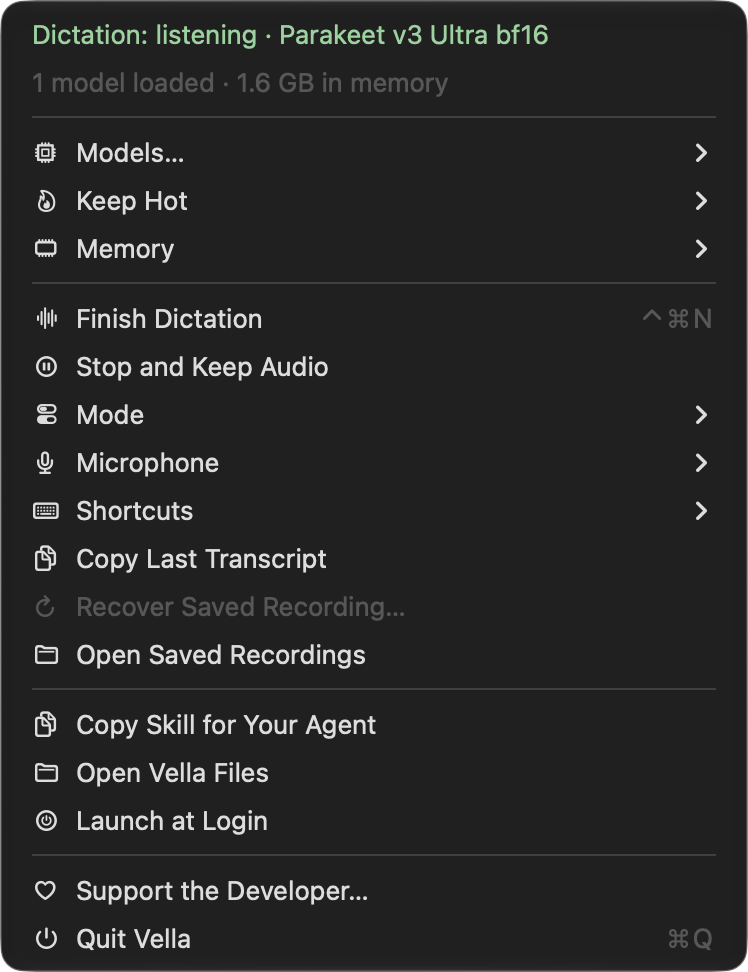
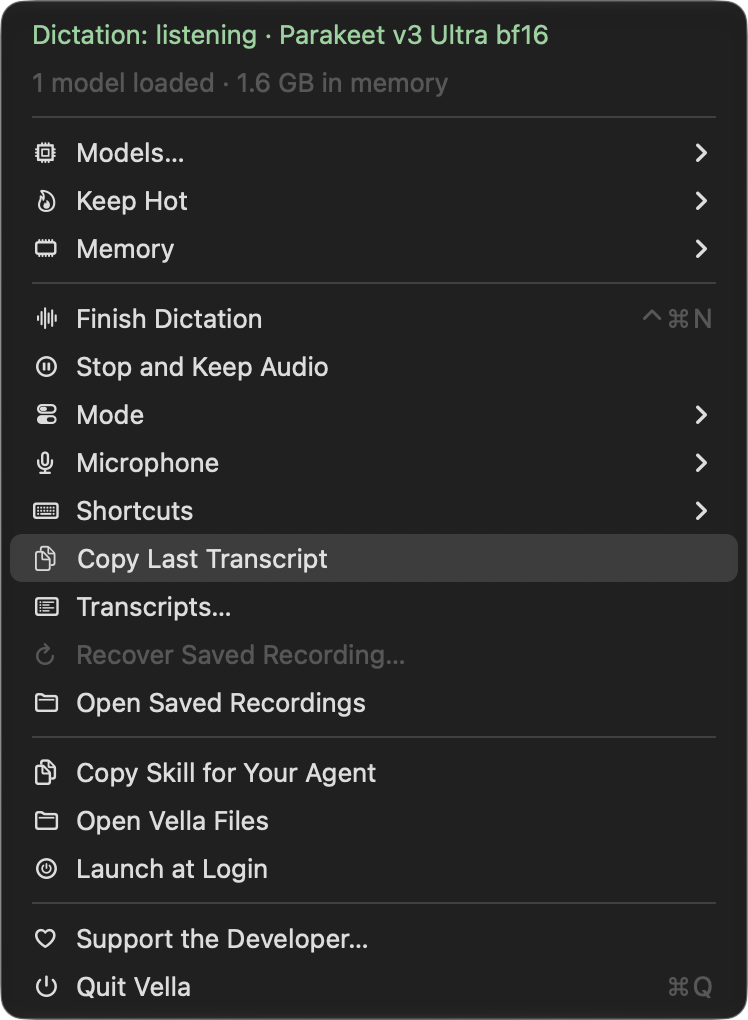
Lifecycle audit 2.1 fixes: current README images, docs match the one-row table, Get placeholders render, load-failure remedy, real Parakeet v3 download size, changelog

diff --git a/scripts/agent-docs.swift b/scripts/agent-docs.swift
@@ -94,7 +94,7 @@ func render(_ models: JSON, _ bench: JSON) -> String {
     lines += (models["families"] as? [JSON] ?? []).map { row($0, bench) }
     var note =
         "English WER is on the 167 English minutes of v2 (239.7 min total); nine other languages are scored separately. Figures use the first offered, measured 16-bit cell: Optimized Fast, then Exact, then Standard. Speed is × real time and energy is joules "
-        + "per minute of audio on the reference Mac (\(bench["hardware"] as? String ?? dash)); measurements are from an M5 Max with a 40-core GPU; other M5 configurations have not yet been tested. On any other configuration, WER/Format/Peak RAM remain reference measurements; Speed remains the M5 Max measured speed, lighter grey with a small M5 Max label; J/min is not known. Tooltip: Measured on an M5 Max (40-core GPU). Your Mac will differ; vella diagnose measures it. "
+        + "per minute of audio on the reference Mac (\(bench["hardware"] as? String ?? dash)); measurements are from an M5 Max with a 40-core GPU; other M5 configurations have not yet been tested. On any other configuration, WER/Format/Peak RAM remain reference measurements; Speed and J / min show the M5 Max reference measurements with warning triangles, and the footer names the measured Mac. Tooltip: Measured on an M5 Max (40-core GPU). Your Mac will differ; vella diagnose measures it. "
         + "Fast enables every kept lever for that model and precision; Exact enables only exact kept levers; Standard enables none. "
         + "Streaming models do not transcribe files. `vella models --json` lists every cell, its reference English WER and peak RAM, M5 Max measured speed labelled by hardware and chip-qualified energy, measurement provenance or refusal reason, and the source and size. Equal recipes use the canonical measured cell named in `cells[].provenance.display_cell` (`display_cells` in the benchmark file)."
     if isPending(bench) {

diff --git a/Sources/Vella/ModelsTable/ModelTable.swift b/Sources/Vella/ModelsTable/ModelTable.swift
@@ -329,10 +329,17 @@ struct ModelTable: View {
     }
 
     /// What a download fetches for a precision: its own weights, or for a derived precision the weights it is made from.
+    /// Sizes come from what Get actually transfers (`acquisition`), so a stored conversion shows its source download.
     private func downloadText(_ family: ModelFamily, _ precision: String) -> String {
-        guard let root = controller.downloadRoot(family, precision), let v = family.variants[root] else { return "Download" }
-        let size = formatBytes(v.downloadBytes)
-        return root == precision ? "Asks, then downloads \(size) from Hugging Face" : "Asks, then downloads the \(precisionFormatName(root)) weights (\(size)) it is made from"
+        guard let source = family.acquisition(of: precision) else { return "Download" }
+        let size = formatBytes(source.download.downloadBytes)
+        let root = precisionFormatName(source.root)
+        if source.root == precision {
+            return "Asks, then downloads \(size) from Hugging Face" + (source.convert == nil ? "" : " and converts it to \(root)")
+        }
+        return source.convert == nil
+            ? "Asks, then downloads the \(root) weights (\(size)) it is made from"
+            : "Asks, then downloads \(size) from Hugging Face and converts it to the \(root) weights it is made from"
     }
     /// What the row's action does (the action cell's tooltip, second line).
     private func actionHelp(_ action: LoadAction, family: ModelFamily, precision: String, loaded: String?) -> String {

diff --git a/Tests/VellaAppTests/ModelsTable/TableTooltipTests.swift b/Tests/VellaAppTests/ModelsTable/TableTooltipTests.swift
@@ -395,6 +395,16 @@ final class TableTooltipTests: XCTestCase {
             table.tooltips(ultra).first { $0.0 == "Action" }?.1,
             "Not downloaded\nAsks, then downloads the BF16 (bfloat16) weights (\(formatBytes(ultra.variants["BF16"]!.downloadBytes))) it is made from; then loads it for dictation. The quantized weights are made in memory each time this precision loads."
         )
+        // Parakeet v3's bf16 is converted from the fp32 download: the tooltip gives that download, never Zero kB
+        // (lifecycle audit 2.1, A6).
+        let v3 = try XCTUnwrap(c.catalog.family("parakeet-v3"))
+        let fetched = try XCTUnwrap(v3.acquisition(of: "8b")).download.downloadBytes
+        XCTAssertGreaterThan(fetched, 0)
+        for tier in [ModelTier.t16, .t8] {
+            c.select(v3, tier: tier)
+            let action = try XCTUnwrap(table.tooltips(v3).first { $0.0 == "Action" }?.1)
+            XCTAssertTrue(action.contains(formatBytes(fetched)) && !action.contains("Zero"), action)
+        }
         let nemotron = try XCTUnwrap(c.catalog.family("nemotron-3.5-streaming-0.6b"))
         XCTAssertNotNil(c.result(nemotron, "8b"), "corrected int8 cells supply measured shipping figures despite recommendation failure")
         XCTAssertTrue(speedHelp(nemotron.mode, c.result(nemotron, "8b"), suites: c.benchmarks.suites).hasPrefix("Streaming replay speed"))

diff --git a/Sources/Vella/ModelsTable/ModelsController.swift b/Sources/Vella/ModelsTable/ModelsController.swift
@@ -412,7 +412,9 @@ struct ModelDeletionPlan {
     /// The Get row's download: the offered precision's own weights, or for a precision made on this Mac its source's.
     func firstOffer(_ mode: RecognitionMode) -> DictationController.ModelOffer? {
         guard let (family, precision) = firstOffered(mode), let source = family.downloadSource(of: precision) else { return nil }
-        return DictationController.ModelOffer(id: source.variant.id, name: family.name, downloadBytes: source.variant.downloadBytes, mode: mode)
+        // The size is what Get transfers: a stored conversion (Parakeet v3's bf16) has no download of its own.
+        let bytes = family.acquisition(of: precision)?.download.downloadBytes ?? source.variant.downloadBytes
+        return DictationController.ModelOffer(id: source.variant.id, name: family.name, downloadBytes: bytes, mode: mode)
     }
     /// The precision the row returns to without a preview: the committed selection's tier.
     /// ONE state: a loaded model shows its loaded precision (offered or not); an unloaded one the committed selection's

diff --git a/Sources/Vella/QA/LifecycleRenders.swift b/Sources/Vella/QA/LifecycleRenders.swift
@@ -71,7 +71,7 @@ import VellaCore
                 "Could not prepare the local precision: Vella does not have permission to write the recipe. The current selection is unchanged. Check the model folder and try Load again in Models…."
             ),
             ("Word timestamps", "Word timestamps are not supported. Use timestamp_granularities[]=segment with response_format=verbose_json."),
-            ("Direct control API", "Select needs at least one JSON field: precision, path or mode. Deletion needs explicit consent: yes=true (CLI: --yes).")
+            ("Direct control API", "Select needs at least one JSON field: precision or mode. Deletion needs explicit consent: yes=true (CLI: --yes).")
         ]
         actions.append { [self] in MenuMock.capture(TooltipSheet(pairs: pairs, width: 640), to: directory.appendingPathComponent("changed-tooltips.png"), done: next) }
         actions.append { [self] in MenuMock.capture(DMGLayoutView(), to: directory.appendingPathComponent("dmg-window-settings.png"), done: next) }

diff --git a/Sources/Vella/Workers/DictationBackend.swift b/Sources/Vella/Workers/DictationBackend.swift
@@ -4,10 +4,10 @@ import VellaCore
 import VellaWire
 
 extension Backend {
-    /// A model the worker could not load. For a catalog model that is almost always its files (a truncated or damaged
-    /// download): trying again cannot help, getting it again does.
+    /// A model the worker could not load. Usually its files (a truncated or damaged download), so the remedy ends in
+    /// getting it again; a selected model can only be deleted once another one is chosen for that mode.
     nonisolated static func loadFailed(_ name: String) -> String {
-        "\(name) failed to load; its files may be damaged. Delete it in Models… and Get it again."
+        "\(name) failed to load. Try Load again; if it keeps failing, load another model, then delete this one in Models… and Get it again."
     }
 }
 

diff --git a/Tests/VellaAppTests/ModelsTable/ReadmeCaptureTests.swift b/Tests/VellaAppTests/ModelsTable/ReadmeCaptureTests.swift
@@ -24,7 +24,6 @@ final class ReadmeCaptureTests: XCTestCase {
         XCTAssertTrue(controller.catalog.family("parakeet-v3")?.tiersOffered?.contains("8") == true)
         for id in ["whisper-large-v3", "whisper-large-v3-turbo"] {
             let family = try XCTUnwrap(controller.catalog.family(id))
-            XCTAssertNil(controller.baseResult(family), "No withdrawn Standard comparison in the capture")
             XCTAssertNotNil(controller.shownResult(family)?.speed_x)
         }
         TableRenderDelegate.renderFirstFrame(controller, to: out.appendingPathComponent("models-current.png"), check: out.appendingPathComponent("layout.txt"))

diff --git a/Tests/VellaAppTests/API/DiagnoseTests.swift b/Tests/VellaAppTests/API/DiagnoseTests.swift
@@ -71,7 +71,7 @@ final class DiagnoseCLITests: XCTestCase {
         XCTAssertEqual(code, 0, err)
         XCTAssertFalse(out.contains("for this diagnosis (--load)"), out)
         XCTAssertTrue(out.contains("fake-loadfail: not loaded\n"), out)
-        XCTAssertTrue(out.contains("  not timed: " + Backend.loadFailed("fake-loadfail")), "a failed load names damaged files: \(out)")
+        XCTAssertTrue(out.contains("  not timed: " + Backend.loadFailed("fake-loadfail")), "a failed load gives the recovery steps: \(out)")
     }
 
     @MainActor func testDiagnoseWhenVellaIsNotRunning() async throws {

diff --git a/docs/USAGE.md b/docs/USAGE.md
@@ -48,7 +48,7 @@ Models, recordings and settings in `~/Library/Application Support/Vella` are kep
 1. Open Vella and approve Microphone and Accessibility access when asked.
 2. Press **Control + Command + N** to record. Click your destination field, then press the shortcut again to finish.
 
-A fresh install has no model. If you dictate before getting one, Vella keeps the recording and the menu shows **Get <model> (<size>)** (the first Dictation model, at the precision recommended for this Mac). Click it and confirm the download (see **Downloads** below): the model downloads from Hugging Face, and the saved recording is transcribed when ready and copied, never pasted automatically. Click your destination and press ⌘V. Nothing downloads without that confirmation. After that, transcription works offline.
+A fresh install has no model. If you dictate before getting one, Vella keeps the recording and the menu shows **Get** *model* **(***size***)** (the first Dictation model, at the precision recommended for this Mac). Click it and confirm the download (see **Downloads** below): the model downloads from Hugging Face, and the saved recording is transcribed when ready and copied, never pasted automatically. Click your destination and press ⌘V. Nothing downloads without that confirmation. After that, transcription works offline.
 
 ## Menu
 
@@ -87,7 +87,7 @@ Lower is better for WER, Format, J / min and Peak RAM; higher for Speed. The sma
 
 **Actions.** The button at the end of each row is always there. **Get** downloads the model and loads it (the download popup gives its size). **Load** loads it and keeps it loaded (see Keep Hot); **Unload** frees its memory and keeps the download. The trash icon that appears beside the button under the pointer deletes the downloaded weights after confirmation. Recordings and transcripts are never deleted with a model.
 
-**Downloads.** Every action that needs a download (Get, Load or Reload of a precision that is not on disk, a precision made on this Mac whose source is missing, the first-dictation Get) first asks in a popup: which model and precision, whether it is published on Hugging Face (repository and revision) or made on this Mac from which weights, the exact download size, the disk space needed and free, and that it loads when done. **Cancel** is the default; nothing downloads without **Download**. The footer shows the progress; a failed or stalled download shows its reason there. A cancelled or failed download removes its partial files, and when Vella starts it deletes partial downloads left in its Models folder by a quit or crash.
+**Downloads.** Every action that needs a download (Get, Load or Reload of a precision that is not on disk, a precision made on this Mac whose source is missing, the first-dictation Get) first asks in a short popup: which model, the download size, and what happens next (it loads as the chosen precision). A download that would not fit on the disk is refused with the space needed and free. **Cancel** is the default; nothing downloads without **Download**. The footer shows the progress; a failed or stalled download shows its reason there. A cancelled or failed download removes its partial files, and when Vella starts it deletes partial downloads left in its Models folder by a quit or crash.
 
 Speed differences use N× faster at a ratio of 2× or above and N% faster below; decreases use N% slower. Energy differences always use percentages (N% less or N% more). Noise-level WER/Format differences read same.
 
@@ -241,7 +241,7 @@ A file's model is looked up again for each of its segments, when that segment's 
 | `whisper-large-v3-turbo` | dictation | Whisper large-v3 with 4 decoder layers instead of 32: the same languages, much faster, a little less accurate outside English | 100 | 0.8B | MIT | fp16, int8, int4 | 16.57 | 115.7× | 36.56 | 2516 |
 | `nemotron-3.5-streaming-0.6b` | streaming | Transcribes 28 languages as the audio arrives, so Streaming mode types while you speak; not used for Dictation | 28 | 0.6B | OpenMDW-1.1 (MLX conversion: NVIDIA Open Model License) | bf16, int8, int4 | 23.35 | 34.9× | 50.03 | 1655 |
 
-English WER is on the 167 English minutes of v2 (239.7 min total); nine other languages are scored separately. Figures use the first offered, measured 16-bit cell: Optimized Fast, then Exact, then Standard. Speed is × real time and energy is joules per minute of audio on the reference Mac (Apple M5 Max, macOS 26.6); measurements are from an M5 Max with a 40-core GPU; other M5 configurations have not yet been tested. On any other configuration, WER/Format/Peak RAM remain reference measurements; Speed remains the M5 Max measured speed, lighter grey with a small M5 Max label; J/min is not known. Tooltip: Measured on an M5 Max (40-core GPU). Your Mac will differ; vella diagnose measures it. Fast enables every kept lever for that model and precision; Exact enables only exact kept levers; Standard enables none. Streaming models do not transcribe files. `vella models --json` lists every cell, its reference English WER and peak RAM, M5 Max measured speed labelled by hardware and chip-qualified energy, measurement provenance or refusal reason, and the source and size. Equal recipes use the canonical measured cell named in `cells[].provenance.display_cell` (`display_cells` in the benchmark file).
+English WER is on the 167 English minutes of v2 (239.7 min total); nine other languages are scored separately. Figures use the first offered, measured 16-bit cell: Optimized Fast, then Exact, then Standard. Speed is × real time and energy is joules per minute of audio on the reference Mac (Apple M5 Max, macOS 26.6); measurements are from an M5 Max with a 40-core GPU; other M5 configurations have not yet been tested. On any other configuration, WER/Format/Peak RAM remain reference measurements; Speed and J / min show the M5 Max reference measurements with warning triangles, and the footer names the measured Mac. Tooltip: Measured on an M5 Max (40-core GPU). Your Mac will differ; vella diagnose measures it. Fast enables every kept lever for that model and precision; Exact enables only exact kept levers; Standard enables none. Streaming models do not transcribe files. `vella models --json` lists every cell, its reference English WER and peak RAM, M5 Max measured speed labelled by hardware and chip-qualified energy, measurement provenance or refusal reason, and the source and size. Equal recipes use the canonical measured cell named in `cells[].provenance.display_cell` (`display_cells` in the benchmark file).
 <!-- MODELS_END -->
 
 Whisper Standard and Optimized were measured together on the faithful FP16 build; the quiet-window refresh completed 4 October. Exact and Fast share the same exact-only whisper-4 recipe and canonical measurement. Per-cell and tier gates use that build’s FP16 Standard baseline; the earlier Float32-baseline figures remain withdrawn. Nemotron gates use same-layout native Standard controls; int8 and int4 are offered but not recommended, and int4 loses 21 test clips. Every measured cell is offered; each cell's `loss` states what it loses against 16-bit.

diff --git a/README.md b/README.md
@@ -13,9 +13,9 @@
 </p>
 
 <p align="center">
-  <img src="docs/images/menu-current.png" alt="Vella's menu while dictating: status, Models, Keep Hot, Memory, Finish Dictation, Stop and Keep Audio, Mode, Microphone, Shortcuts, Copy Last Transcript, Recover Saved Recording, Open Saved Recordings, Copy Skill for Your Agent, Open Vella Files, Launch at Login, Support the Developer, Quit Vella" width="256">
+  <img src="docs/images/menu-current.png" alt="Vella's menu while dictating: status, Models, Keep Hot, Memory, Finish Dictation, Stop and Keep Audio, Mode, Microphone, Shortcuts, Copy Last Transcript, Transcripts, Recover Saved Recording, Open Saved Recordings, Copy Skill for Your Agent, Open Vella Files, Launch at Login, Support the Developer, Quit Vella" width="256">
   &nbsp;
-  <img width="519" src="docs/images/models-current.png" alt="Vella Models table with Dictation and Streaming sections, six precision cells per model, Exact/Fast, Get/Load/Unload, and final M5 Max benchmark figures" width="904">
+  <img width="519" src="docs/images/models-current.png" alt="Vella Models table: one precision row per model, gold recommendations, a Fast/Exact switch, Get buttons and M5 Max benchmark figures">
 </p>
 
 Offline dictation and transcription for Mac: local Whisper, Parakeet and Qwen speech-to-text, tuned for Apple Silicon. Scripts and coding agents get an OpenAI-compatible local API: `POST /v1/audio/transcriptions`.
@@ -130,13 +130,13 @@ Commit SHAs are those of the published history (rewritten 3 Oct to remove the wi
 
 <!-- BENCHMARK_TABLE_END -->
 
-- **Precision** is the running weight format: bf16 or fp16 for the 16-bit checkpoint, and int8 or int4 for affine quantization made on your Mac. Parakeet v3’s fp32 download is converted once to bf16 at Get. **Standard** and **Optimized** are the two ways to run a precision; **Exact** and **Fast** are Optimized's two recipes.
+- **Precision** is the running weight format: bf16 or fp16 for the 16-bit checkpoint, and int8 or int4 for affine quantization made on your Mac. Parakeet v3’s fp32 download is converted once to bf16 at Get. Every precision runs the optimized path and falls back to plain MLX by itself; **Exact** and **Fast** are its two recipes.
 - **WER** is English word error rate on the 167 English minutes of the 239.7-minute v2 suite: the percentage of words wrong (substituted, missed or added) out of the words spoken, ignoring case and punctuation. The nine other languages are scored separately and never pooled into this figure. It is the industry-standard metric, as on the Hugging Face Open ASR Leaderboard; our v2 set is hard (meetings, far-field microphones, accents, earnings calls), so rates run higher than on public leaderboards. **Format** is our own measure, with no industry standard: character error rate with case and punctuation kept, i.e. how much editing the finished text needs. Lower is better for both. Multilingual word error rates, per language, are in the WER tooltip.
 - **Speed** is the real-time factor (RTFx): audio seconds per processing second, after the model is loaded; 100× means a minute of audio in 0.6 s. **J / min** is the energy the whole chip (CPU, GPU, Neural Engine and memory) used per minute of audio, idle power subtracted. **Peak RAM** is the peak footprint of the model worker, including loading.
 Speed differences use “N× faster” at a ratio of 2× or above and “N% faster” below; decreases use “N% slower”. Energy differences always use percentages (“N% less” or “N% more”). Noise-level WER/Format differences read same.
 
 - **Which tiers are offered.** Every measured tier is offered, with its figures. Where a tier loses anything against 16, its tooltip says what, starting with test clips it left empty or cut short, which an average word error rate hides; Vella's quality gate (English word error rate within 0.1 points of 16, up to 0.2 points for a model whose measured run-to-run noise is larger, the other languages within a similar limit, no dropped or cut-off segments) says whether a tier loses nothing measurable. The precision recommended for your Mac is gold: the smallest that passes the gate and runs on its GPU's matrix hardware. A tier that fails the gate is never recommended.
-- Measurements are from an M5 Max with a 40-core GPU; other M5 configurations have not yet been tested. Other Apple Silicon chips run the fallback paths qualified by self-test. Only M5 Max with 40 GPU cores matches the measured configuration. On every other Mac (including M5, M5 Pro and other M5 Max core counts), Speed stays the **M5 Max measurement**, lighter grey with a small **M5 Max** label; it is not an estimate for that Mac. J / min is `not known`. WER, Format and Peak RAM stay as measured. Tooltip: “Measured on an M5 Max (40-core GPU). Your Mac will differ; vella diagnose measures it.”
+- Measurements are from an M5 Max with a 40-core GPU; other M5 configurations have not yet been tested. Other Apple Silicon chips run the fallback paths qualified by self-test. Only M5 Max with 40 GPU cores matches the measured configuration. On every other Mac (including M5, M5 Pro and other M5 Max core counts), Speed and J / min show the **M5 Max measurement** with a warning triangle, and the footer names the measured Mac; they are not estimates for that Mac. WER, Format and Peak RAM stay as measured. Tooltip: “Measured on an M5 Max (40-core GPU). Your Mac will differ; vella diagnose measures it.”
 
 Every figure is in [`Resources/benchmarks.json`](Resources/benchmarks.json); the [benchmark methods](docs/BENCHMARKS.md) cover suites, scoring, timing, energy and build provenance. Benchmark your Mac or tune a model with the [public benchmark kit](Benchmarks/README.md).
 
@@ -160,7 +160,7 @@ Or from a checkout: `git clone https://github.com/TobyNoSkillSon/Vella && cd Vel
 
 **Optional DMG.** The release also carries a disk image, `Vella-2.0.0.dmg`, wrapped from the same release ZIP; the ZIP remains the primary asset. Open the image and drag Vella to Applications. For Terminal and agents, use `/Applications/Vella.app/Contents/Helpers/vella`, or use the command-line installer, which links `vella`. The app is self-signed and not notarized: after macOS blocks its first launch, use **System Settings → Privacy & Security → Open Anyway**, then confirm. The command-line installer above needs no Gatekeeper step.
 
-Open Vella from the menu bar (after a Homebrew install, start it from Applications first), approve Microphone and Accessibility access, and press **Control + Command + N**. The first dictation without a model keeps the recording and offers **Get <model> (<size>)**; after the download it transcribes the waiting recording.
+Open Vella from the menu bar (after a Homebrew install, start it from Applications first), approve Microphone and Accessibility access, and press **Control + Command + N**. The first dictation without a model keeps the recording and offers **Get** *model* **(***size***)**; after the download it transcribes the waiting recording.
 
 <details>
 <summary>Updating, verification and uninstalling</summary>

diff --git a/CHANGELOG.md b/CHANGELOG.md
@@ -6,6 +6,10 @@
 - **Recommended for your Mac, in gold:** the smallest precision that keeps 16-bit accuracy and runs on your GPU's matrix hardware. An orange triangle marks precisions your Mac runs in software. A model you have not chosen a precision for starts on the recommended one, and Get downloads and loads that; saved choices are kept.
 - **Figures on every Mac.** Peak RAM, WER and Format always show. Speed and J / min show the M5 Max figure for reference, with a triangle, where your Mac was not measured.
 - `vella select --path` and the API's `path` field are refused: send precision and mode. `vella models --json` adds the recommended precision and each cell's hardware support; `vella status` still reports the path that actually runs.
+- **Transcripts…** in the menu opens your past transcripts, newest first. Click a transcript or Copy to copy it; long ones expand, and Show more loads older ones.
+- Shorter download, recovery, delete, quit and update prompts.
+- The first-dictation Get offer clears once its model is ready, also when it falls back to plain MLX.
+- Parakeet v3's Get tooltip and first-dictation offer show its real download size instead of Zero kB.
 - **Support the Developer…** opens the support page on [tobynoskillson.com](https://tobynoskillson.com/#support): GitHub Sponsors and Buy Me a Coffee.
 - Homebrew: `brew install --cask tobynoskillson/tap/vella`. Publishing a release updates the cask in [TobyNoSkillSon/homebrew-tap](https://github.com/TobyNoSkillSon/homebrew-tap) (`.github/workflows/homebrew.yml`).
 - Benchmark references with restrictive or unclear redistribution terms are fetched locally, with the frozen text hashes checked before scoring. Suite clips and scoring rules are unchanged.
@@ -40,7 +44,7 @@
 - **Keep Hot** per kind of load: manually loaded models stay loaded (default Always) and load again at launch; models loaded for a dictation unload after 15 idle minutes by default.
 - **Memory**: *Fit in free memory* (default) unloads idle models or refuses a load with the numbers and remedies; *Allow swap (slower)* skips the check.
 - **Engine label** `Optimized Fast · <chip>`, `Optimized Exact · <chip>` or `Standard` under a loaded model, backed by a self-test at load and a fallback that redoes a failed optimized transcription on the stock path.
-- **First dictation without a model** keeps the recording and offers **Get <model> (<size>)**; the recording is transcribed once the model is ready.
+- **First dictation without a model** keeps the recording and offers **Get** *model* **(***size***)**; the recording is transcribed once the model is ready.
 - **In-app updates.** A newer release shows an orange **Update to X…** item under **Support the Developer…**. **Update Now** downloads the release, verifies its SHA-256, contents, version and that it is signed like the running app, installs it when Vella is idle and restarts; if the new version does not become ready, the previous one is restored. It replaces the notice that only opened the release page.
 - **Audio files, for you and your agents.** `vella transcribe <file>` (text, `--srt`, `--vtt`, `--json`) and an OpenAI-compatible local API (`POST /v1/audio/transcriptions`, `GET /v1/models`, `GET /status`) on 127.0.0.1, so the OpenAI SDKs work with only the base URL changed. Any audio macOS decodes, up to 3 hours; dictation always goes first; nothing is pasted or kept. The installer links `vella` into `~/.local/bin`; **Copy Skill for Your Agent** and `vella skill` provide the agent skill.
 - **One-command install without git.** `curl -fsSL https://raw.githubusercontent.com/TobyNoSkillSon/Vella/main/scripts/install-public.sh | bash` now installs the prebuilt release with the same checks as `scripts/install.sh` (it built 0.8.8 from source with Python). `bash -s -- --dry-run` verifies without installing.

diff --git a/Resources/SKILL.md b/Resources/SKILL.md
@@ -59,7 +59,7 @@ Start with `parakeet-v3-ultra` at `bf16`, Fast: fastest, with near-best English 
 | `whisper-large-v3-turbo` | dictation | Whisper large-v3 with 4 decoder layers instead of 32: the same languages, much faster, a little less accurate outside English | 100 | 0.8B | MIT | fp16, int8, int4 | 16.57 | 115.7× | 36.56 | 2516 |
 | `nemotron-3.5-streaming-0.6b` | streaming | Transcribes 28 languages as the audio arrives, so Streaming mode types while you speak; not used for Dictation | 28 | 0.6B | OpenMDW-1.1 (MLX conversion: NVIDIA Open Model License) | bf16, int8, int4 | 23.35 | 34.9× | 50.03 | 1655 |
 
-English WER is on the 167 English minutes of v2 (239.7 min total); nine other languages are scored separately. Figures use the first offered, measured 16-bit cell: Optimized Fast, then Exact, then Standard. Speed is × real time and energy is joules per minute of audio on the reference Mac (Apple M5 Max, macOS 26.6); measurements are from an M5 Max with a 40-core GPU; other M5 configurations have not yet been tested. On any other configuration, WER/Format/Peak RAM remain reference measurements; Speed remains the M5 Max measured speed, lighter grey with a small M5 Max label; J/min is not known. Tooltip: Measured on an M5 Max (40-core GPU). Your Mac will differ; vella diagnose measures it. Fast enables every kept lever for that model and precision; Exact enables only exact kept levers; Standard enables none. Streaming models do not transcribe files. `vella models --json` lists every cell, its reference English WER and peak RAM, M5 Max measured speed labelled by hardware and chip-qualified energy, measurement provenance or refusal reason, and the source and size. Equal recipes use the canonical measured cell named in `cells[].provenance.display_cell` (`display_cells` in the benchmark file).
+English WER is on the 167 English minutes of v2 (239.7 min total); nine other languages are scored separately. Figures use the first offered, measured 16-bit cell: Optimized Fast, then Exact, then Standard. Speed is × real time and energy is joules per minute of audio on the reference Mac (Apple M5 Max, macOS 26.6); measurements are from an M5 Max with a 40-core GPU; other M5 configurations have not yet been tested. On any other configuration, WER/Format/Peak RAM remain reference measurements; Speed and J / min show the M5 Max reference measurements with warning triangles, and the footer names the measured Mac. Tooltip: Measured on an M5 Max (40-core GPU). Your Mac will differ; vella diagnose measures it. Fast enables every kept lever for that model and precision; Exact enables only exact kept levers; Standard enables none. Streaming models do not transcribe files. `vella models --json` lists every cell, its reference English WER and peak RAM, M5 Max measured speed labelled by hardware and chip-qualified energy, measurement provenance or refusal reason, and the source and size. Equal recipes use the canonical measured cell named in `cells[].provenance.display_cell` (`display_cells` in the benchmark file).
 <!-- MODELS_END -->
 
 Whisper Standard and Optimized were measured together on the faithful FP16 build; the quiet-window refresh completed 4 October. Exact and Fast share the same exact-only whisper-4 recipe and canonical measurement. Per-cell and tier gates use that build’s FP16 Standard baseline; the earlier Float32-baseline figures remain withdrawn. Nemotron gates use same-layout native Standard controls; int8 and int4 are offered but not recommended, and int4 loses 21 test clips. Every measured cell is offered; each cell's `loss` states what it loses against 16-bit.
